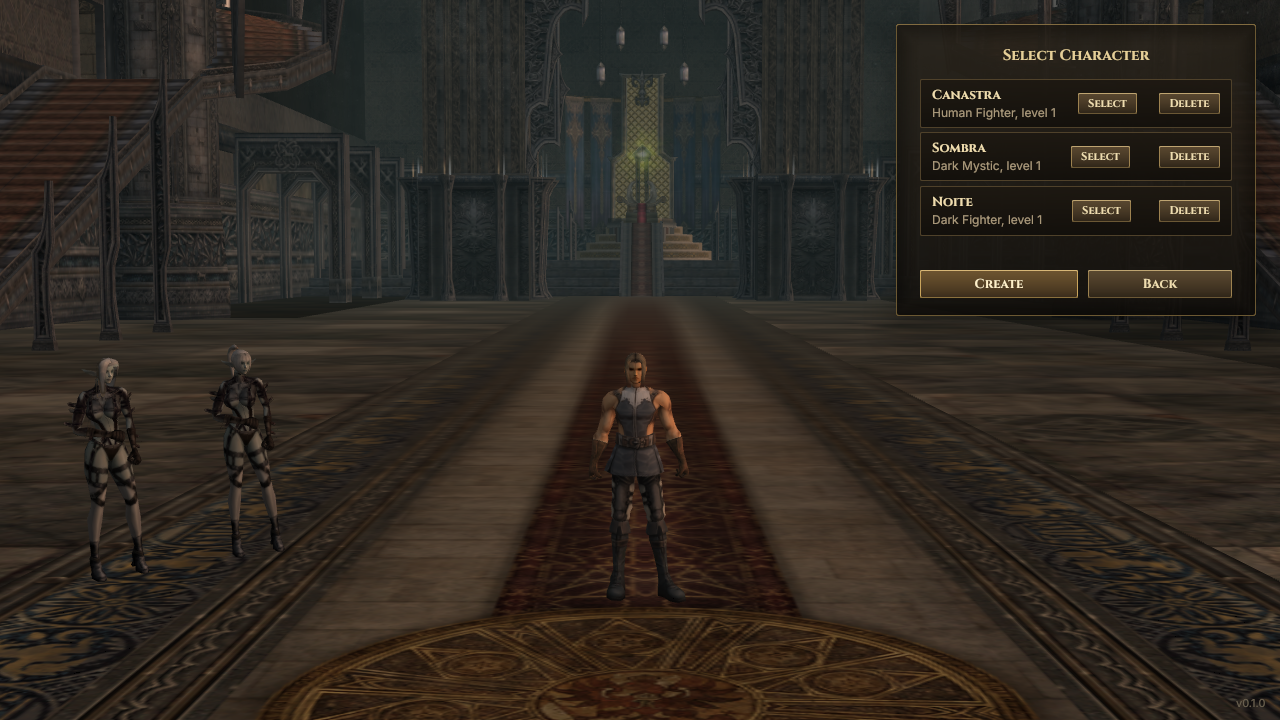
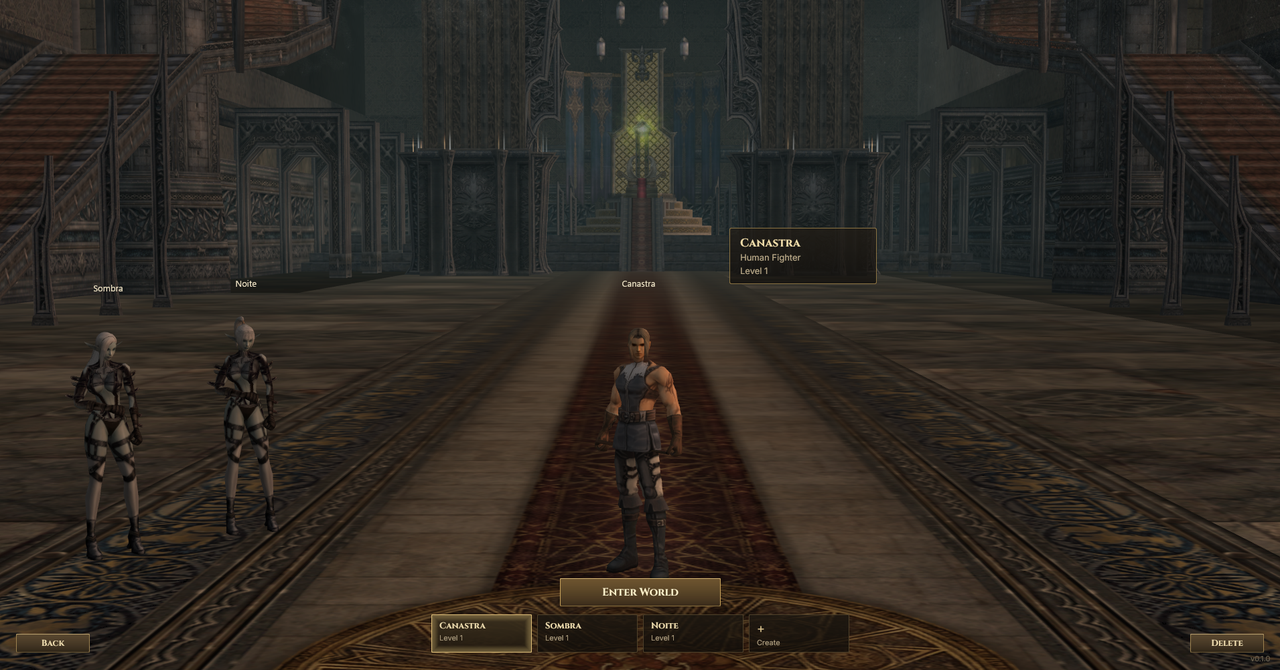
docs: refresh the select and creation screenshots
The select screen is now the card carousel, and creation starts on the race's
scene with the camera flying on to the class and gender picked. The captures
and their captions show both.

diff --git a/docs/screenshots/README.md b/docs/screenshots/README.md
@@ -1,13 +1,13 @@
 # Screenshots
 
-Screens that work today, captured from the running client and Studio (2026-09-15).
+Screens that work today, captured from the running client and Studio (2026-09-16).
 
 | | |
 | --- | --- |
 | ![Login](01-login.png) | **Login.** The High Five login scene, drawn from the installed client's own map, particles and sky. |
 | ![Servers](02-servers.png) | **Server list.** Game servers registered with the login server, with their population. |
-| ![Character creation](03-create-character.png) | **Character creation.** Talking Island from Lobby02, with the race's characters in display armor. Race, class and gender combos; hair style, hair color and face steppers change the chosen model. |
-| ![Characters](04-characters.png) | **Characters.** The account's characters standing in the lobby hall, the selected one on the rune circle, with select and delete. |
+| ![Character creation](03-create-character.png) | **Character creation.** The race's scene from Lobby02, with its characters in display armor. Picking a class flies the camera to its pair and picking a gender to one character, with a close-up behind the + button; hair style, hair color and face steppers change the chosen model. |
+| ![Characters](04-characters.png) | **Characters.** The account's characters standing in the lobby hall, a card per character, the selected one on the rune circle with its details beside it. Click a card or the character to select; delete asks first. |
 | ![Studio item](05-studio-item.png) | **Studio: items.** The game data editor with client icons, validation and undo. |
 | ![Studio class kit](06-studio-class-kit.png) | **Studio: starting kit.** Each class's initial items, which the server owner decides. |
 
